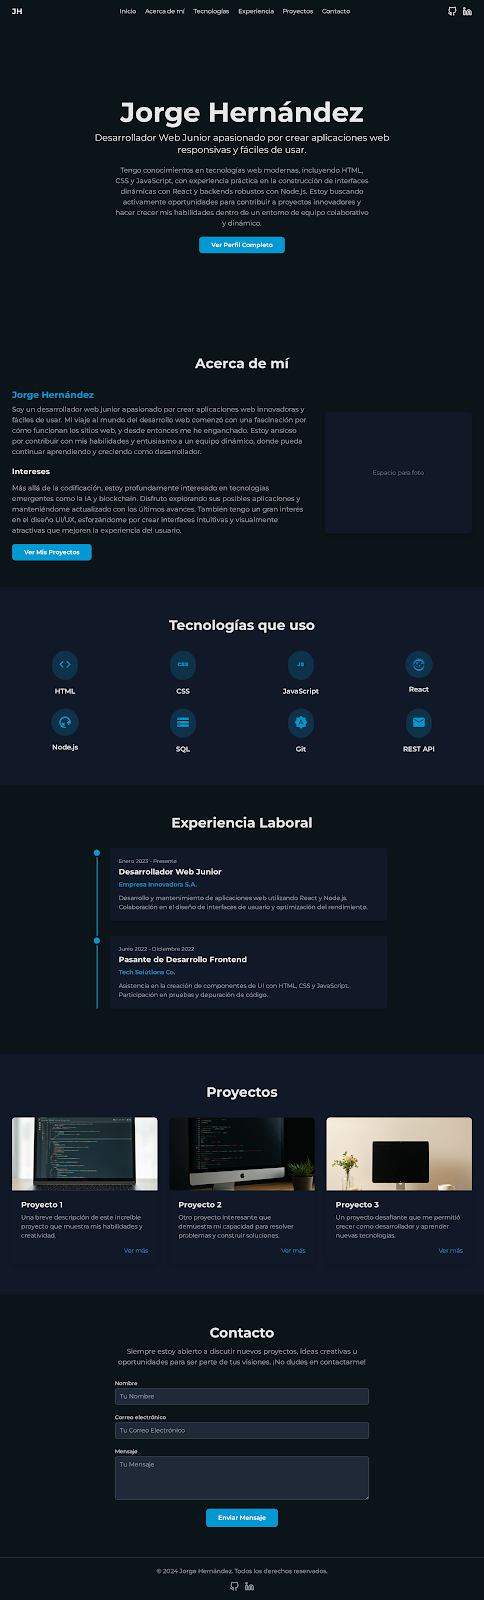
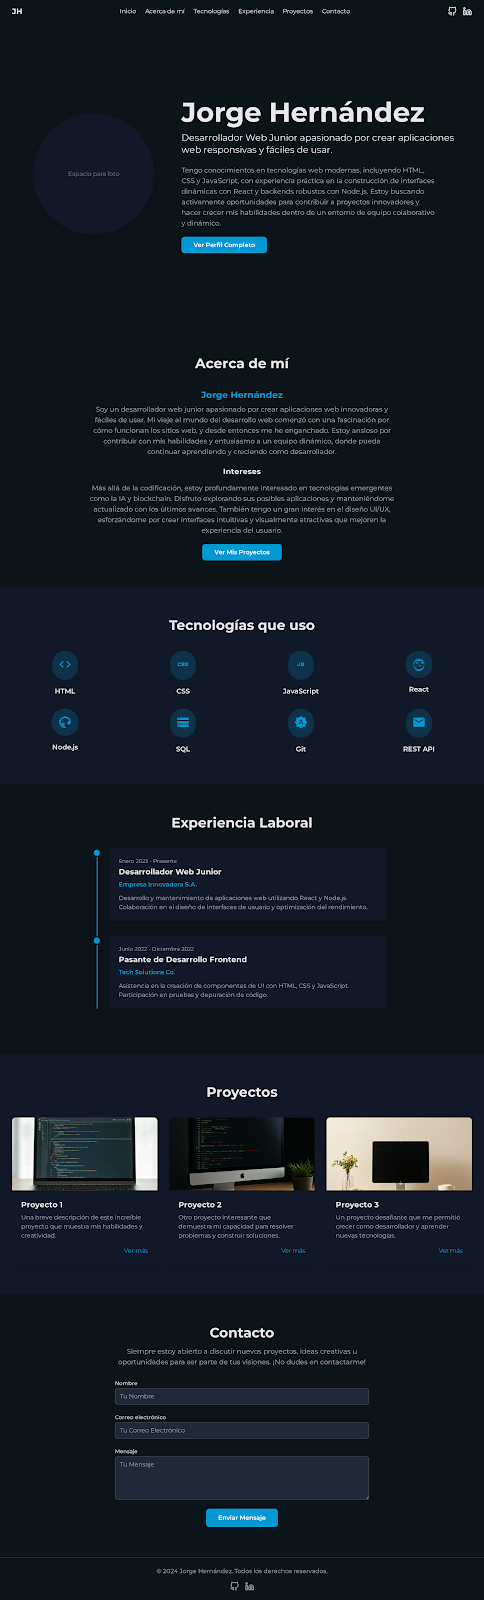
Diseño final mockup

Changed region(s): [[0.031, 0.2188, 0.8058, 0.375], [0.186, 0.0625, 0.9298, 0.1562]]

diff --git a/Mockup final/code.html b/Mockup final/code.html
@@ -87,39 +87,41 @@
 </nav>
 <main>
 <section class="min-h-screen flex items-center justify-center text-center px-4 sm:px-6 lg:px-8" id="hero">
-<div class="max-w-4xl mx-auto">
+<div class="max-w-6xl mx-auto flex flex-col md:flex-row items-center gap-12">
+<div class="md:w-1/3 mb-8 md:mb-0">
+<div class="bg-card-dark rounded-full p-2 w-64 h-64 md:w-80 md:h-80 flex items-center justify-center shadow-lg mx-auto">
+<span class="text-gray-500">Espacio para foto</span>
+</div>
+</div>
+<div class="md:w-2/3 md:text-left">
 <h1 class="text-5xl md:text-7xl font-bold text-text-dark mb-4">Jorge Hernández</h1>
-<p class="text-xl md:text-2xl text-text-dark mb-6">Desarrollador Web Junior, con ganas de crear aplicaciones web responsivas y fáciles de usar.</p>
-<p class="text-lg text-gray-400 max-w-2xl mx-auto mb-8">
-          Tengo conocimientos en tecnologías web modernas, incluyendo HTML, CSS y JavaScript
+<p class="text-xl md:text-2xl text-text-dark mb-6">Desarrollador Web Junior apasionado por crear aplicaciones web responsivas y fáciles de usar.</p>
+<p class="text-lg text-gray-400 max-w-2xl mx-auto md:mx-0 mb-8">
+          Tengo conocimientos en tecnologías web modernas, incluyendo HTML, CSS y JavaScript, con experiencia práctica en la construcción de interfaces dinámicas con React y backends robustos con Node.js.
           Estoy buscando activamente oportunidades para contribuir a proyectos innovadores y hacer crecer mis habilidades dentro de un entorno de equipo colaborativo y dinámico.
         </p>
 <a class="bg-primary text-white font-semibold py-3 px-8 rounded hover:bg-opacity-90 transition-colors" href="#about">
           Ver Perfil Completo
         </a>
 </div>
+</div>
 </section>
 <section class="py-20 px-4 sm:px-6 lg:px-8 bg-background-dark" id="about">
 <div class="container mx-auto">
 <h2 class="text-4xl font-bold text-center mb-12 text-text-dark">Acerca de mí</h2>
-<div class="flex flex-col md:flex-row items-center gap-12">
-<div class="md:w-2/3">
+<div class="flex flex-col items-center">
+<div class="w-full md:w-2/3 text-center">
 <h3 class="text-2xl font-bold text-primary mb-2">Jorge Hernández</h3>
 <p class="text-lg mb-6 text-gray-400">
-              Soy un desarrollador web junior con ganas de crear aplicaciones web innovadoras y fáciles de usar. Mi interes por el mundo del desarrollo web comenzó al plantearme cómo funcionan los sitios web y como es la parte que la gente no ve. Estoy ansioso por contribuir con mis habilidades y entusiasmo a un equipo dinámico, donde pueda continuar aprendiendo y creciendo como desarrollador.
+              Soy un desarrollador web junior apasionado por crear aplicaciones web innovadoras y fáciles de usar. Mi viaje al mundo del desarrollo web comenzó con una fascinación por cómo funcionan los sitios web, y desde entonces me he enganchado. Estoy ansioso por contribuir con mis habilidades y entusiasmo a un equipo dinámico, donde pueda continuar aprendiendo y creciendo como desarrollador.
             </p>
 <h4 class="text-xl font-bold mb-4 text-text-dark">Intereses</h4>
 <p class="text-lg mb-8 text-gray-400">
-              Más allá de la codificación, estoy profundamente interesado en tecnologías emergentes como la IA. Disfruto explorando sus posibles aplicaciones y manteniéndome actualizado con los últimos avances. También tengo un gran interés en el diseño UI/UX, esforzándome por crear interfaces intuitivas y visualmente atractivas que mejoren la experiencia del usuario.
+              Más allá de la codificación, estoy profundamente interesado en tecnologías emergentes como la IA y blockchain. Disfruto explorando sus posibles aplicaciones y manteniéndome actualizado con los últimos avances. También tengo un gran interés en el diseño UI/UX, esforzándome por crear interfaces intuitivas y visualmente atractivas que mejoren la experiencia del usuario.
             </p>
 <a class="bg-primary text-white font-semibold py-3 px-8 rounded hover:bg-opacity-90 transition-colors" href="#projects">
               Ver Mis Proyectos
             </a>
-</div>
-<div class="md:w-1/3">
-<div class="bg-card-dark rounded-lg p-6 w-full h-80 flex items-center justify-center shadow-lg">
-<span class="text-gray-500">Espacio para foto</span>
-</div>
 </div>
 </div>
 </div>
@@ -146,18 +148,17 @@
 </div>
 <p class="font-semibold text-lg">JavaScript</p>
 </div>
-
 <div class="flex flex-col items-center">
 <div class="p-4 bg-primary/20 rounded-full mb-4">
-<span class="material-icons text-primary text-4xl">VUE</span>
+<svg class="h-10 w-10 text-primary" fill="currentColor" viewBox="0 0 24 24" xmlns="http://www.w3.org/2000/svg"><path d="M12 2C6.48 2 2 6.48 2 12s4.48 10 10 10 10-4.48 10-10S17.52 2 12 2zm0 18c-4.41 0-8-3.59-8-8s3.59-8 8-8 8 3.59 8 8-3.59 8-8 8zm-1-12h2v2h-2v-2zm-1-3h4v2h-4v-2zm-2 6h2v2h-2v-2zm12 0h2v2h-2v-2zm-5 5h2v2h-2v-2zm-7-2h2v2H6v-2zm12 0h2v2h-2v-2z" opacity=".3"></path><path d="M12 4c-4.41 0-8 3.59-8 8s3.59 8 8 8 8-3.59 8-8-3.59-8-8-8zm0 18c-4.41 0-8-3.59-8-8s3.59-8 8-8 8 3.59 8 8-3.59 8-8 8z"></path><path d="M11 5h2v2h-2zm-3 4h2v2H8zm8 0h2v2h-2zm-4 4h2v2h-2z"></path></svg>
 </div>
-<p class="font-semibold text-lg">Vue</p>
+<p class="font-semibold text-lg">React</p>
 </div>
 <div class="flex flex-col items-center">
 <div class="p-4 bg-primary/20 rounded-full mb-4">
-<span class="material-icons text-primary text-4xl">NUXT</span>
+<svg class="h-10 w-10 text-primary" fill="currentColor" viewBox="0 0 24 24" xmlns="http://www.w3.org/2000/svg"><path d="M9 3h6v2H9z" opacity=".3"></path><path d="M19 12v-2h-2v2h-2v2h2v2h2v-2h2v-2h-2zm-7.17 4.76l-1.41 1.41L9 16.75l-1.42 1.41-1.41-1.41L7.59 15.34l-1.42-1.41 1.41-1.41L9 13.94l1.42-1.41 1.41 1.41L10.41 15.34l1.42 1.42zM12 3c-4.97 0-9 4.03-9 9s4.03 9 9 9c.64 0 1.27-.07 1.87-.2l.23-.06-1.57-1.57c-.17.02-.34.03-.51.03-3.86 0-7-3.14-7-7s3.14-7 7-7 7 3.14 7 7c0 .17-.01.34-.03.51l1.57 1.57.06-.23C21 13.27 21.07 12.64 21.07 12c0-4.97-4.03-9-9.07-9z"></path></svg>
 </div>
-<p class="font-semibold text-lg">Nuxt</p>
+<p class="font-semibold text-lg">Node.js</p>
 </div>
 <div class="flex flex-col items-center">
 <div class="p-4 bg-primary/20 rounded-full mb-4">
@@ -170,8 +171,15 @@
 <span class="material-icons text-primary text-4xl">brightness_auto</span>
 </div>
 <p class="font-semibold text-lg">Git</p>
-
-
+</div>
+<div class="flex flex-col items-center">
+<div class="p-4 bg-primary/20 rounded-full mb-4">
+<span class="material-icons text-primary text-4xl">email</span>
+</div>
+<p class="font-semibold text-lg">REST API</p>
+</div>
+</div>
+</div>
 </section>
 <section class="py-20 px-4 sm:px-6 lg:px-8 bg-background-dark" id="experience">
 <div class="container mx-auto">
@@ -300,4 +308,5 @@
         });
     });
   </script>
+
 </body></html>
